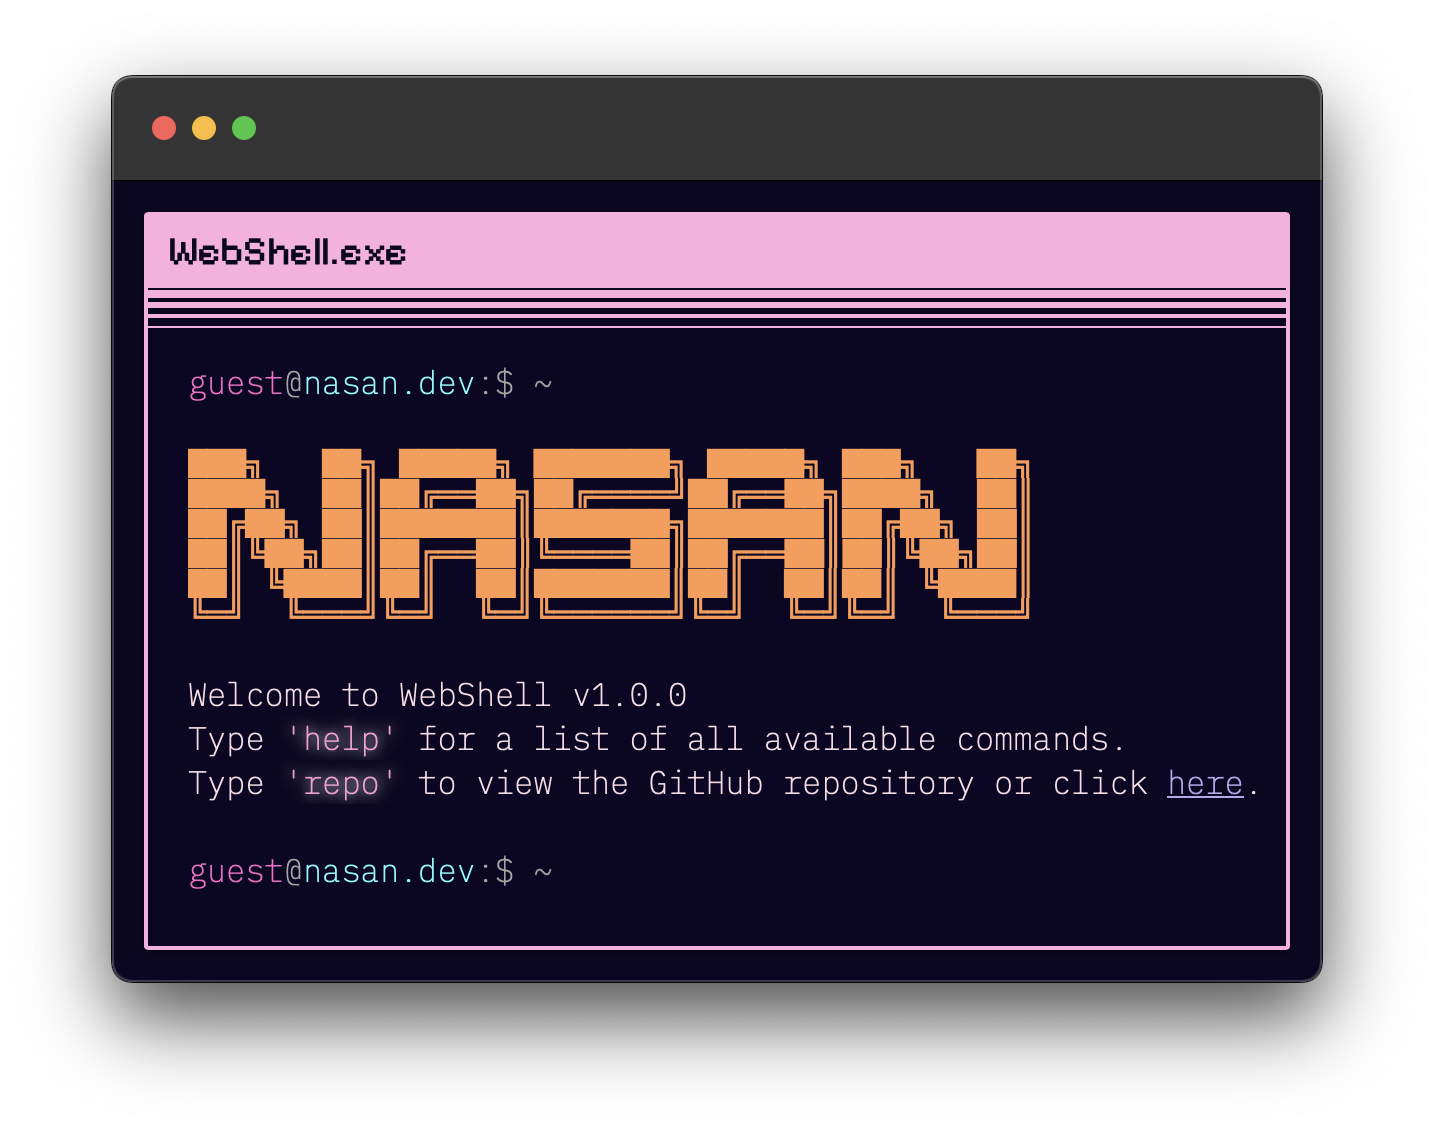
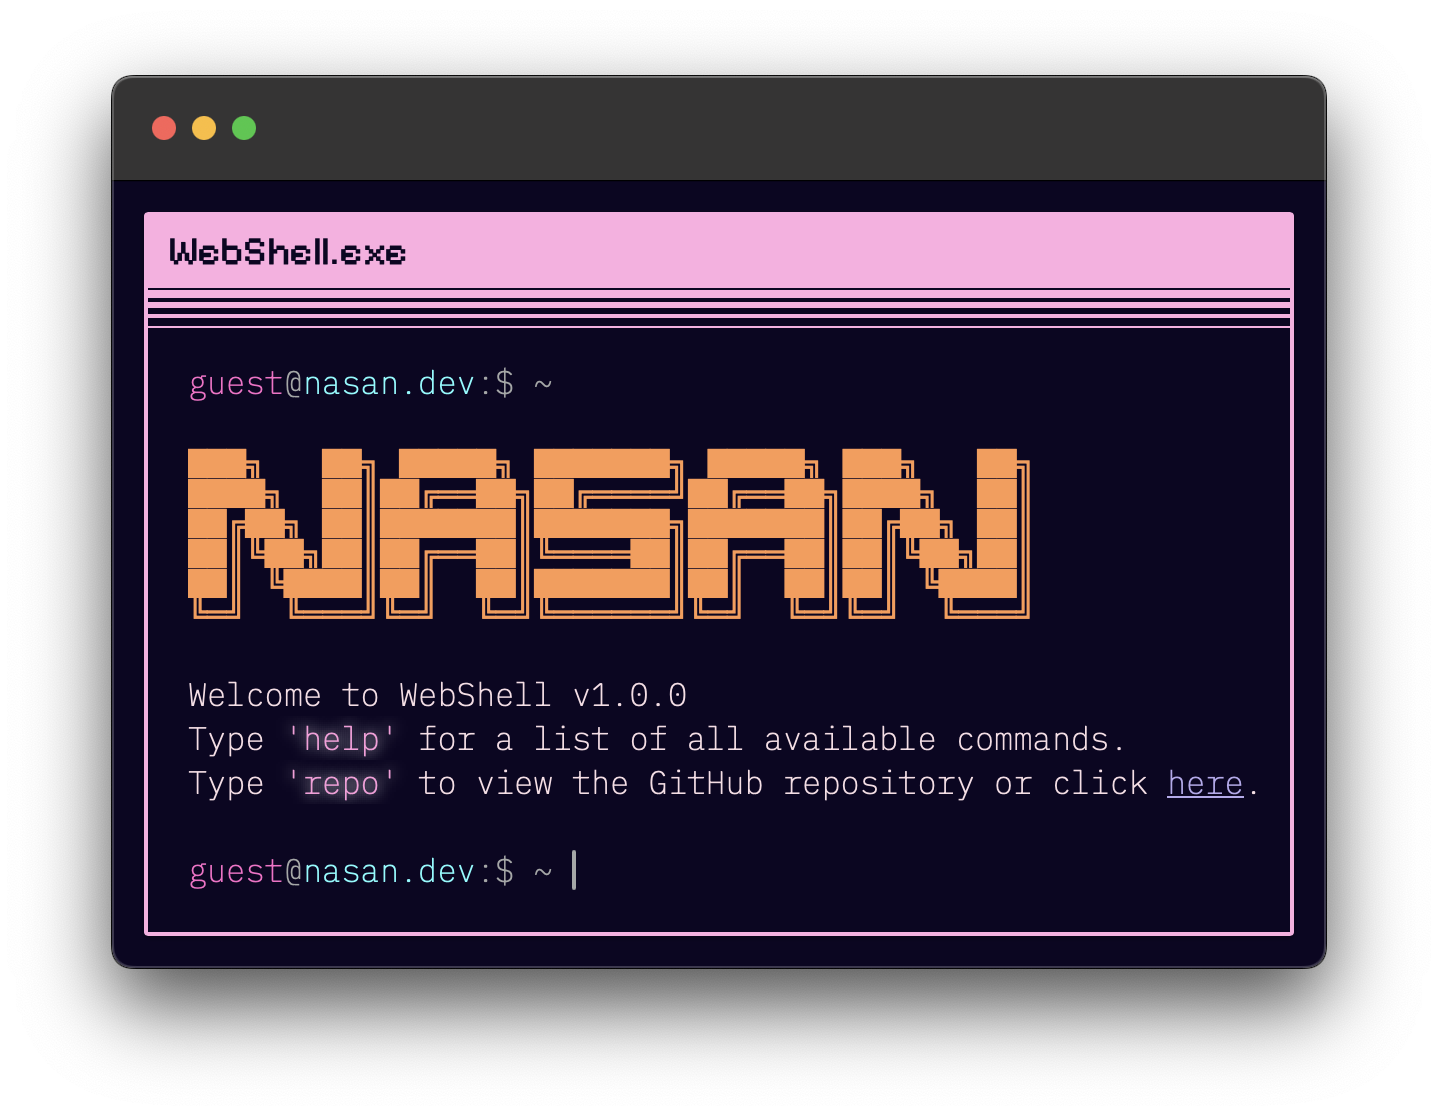
style + readme

diff --git a/index.html b/index.html
@@ -37,7 +37,7 @@
             style="color: var(--prompt-default)">@</span><span style="color: var(--prompt-2)">nasan.dev</span><span
             style="color: var(--prompt-default)">:$ ~</span>
         </span>
-        <input id="user-input" />
+        <input spellcheck="false" autocomplete="off" id="user-input" />
       </div>
       <br>
     </div>
